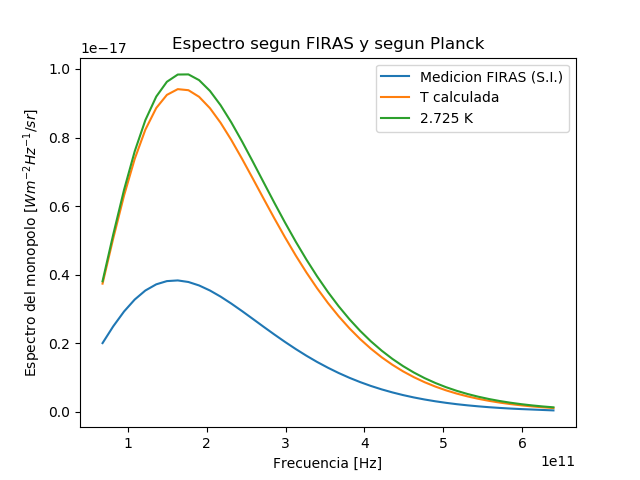
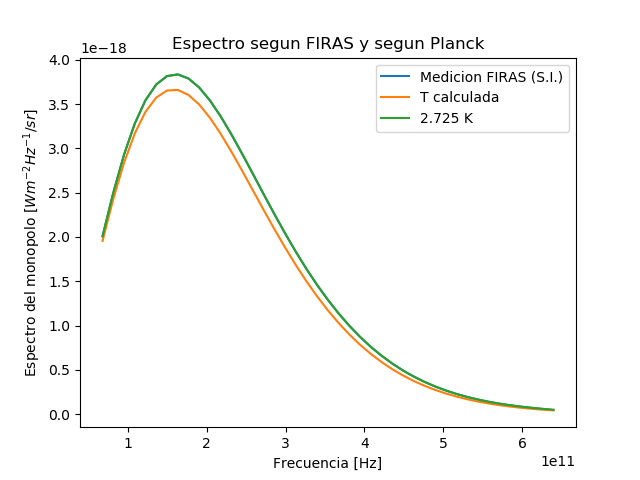
Correxión P2 parte 4
Se cometió un error a la hora de definir la funcion de Planck

diff --git a/01-tarea-p2.py b/01-tarea-p2.py
@@ -161,12 +161,12 @@ print('T =', T, '[K]')
 #de la frecuencia y de la temperatura, escrita al principio.
 
 def planck(v,T):
-    output = ((2*h*v**3)/c**2)/(np.exp((h*v)/(k_B*T) - 1))
+    output = ((2*h*v**(3))/c**(2))/(np.exp((h*v)/(k_B*T)) - 1)
     return output
 
 
 #Grafico:
-"""
+
 plt.plot(frecuencia, espectro_2, label='Medicion FIRAS (S.I.)')              #grafico parte 1 pero en S.I.
 plt.plot(frecuencia, planck(frecuencia,T), label='T calculada')       #T es la temperatura calculada en la parte 3
 plt.plot(frecuencia, planck(frecuencia,2.725), label='2.725 K')       #2.725 K es la temperatura a la que se queria llegar con T
@@ -178,7 +178,7 @@ plt.ylabel('Espectro del monopolo [$W m^{−2} Hz^{−1}/sr$]')
 plt.legend()
 plt.savefig('espectro_monopolo_2.png')
 plt.show()
-"""
+
 
 #Parte 5
 
